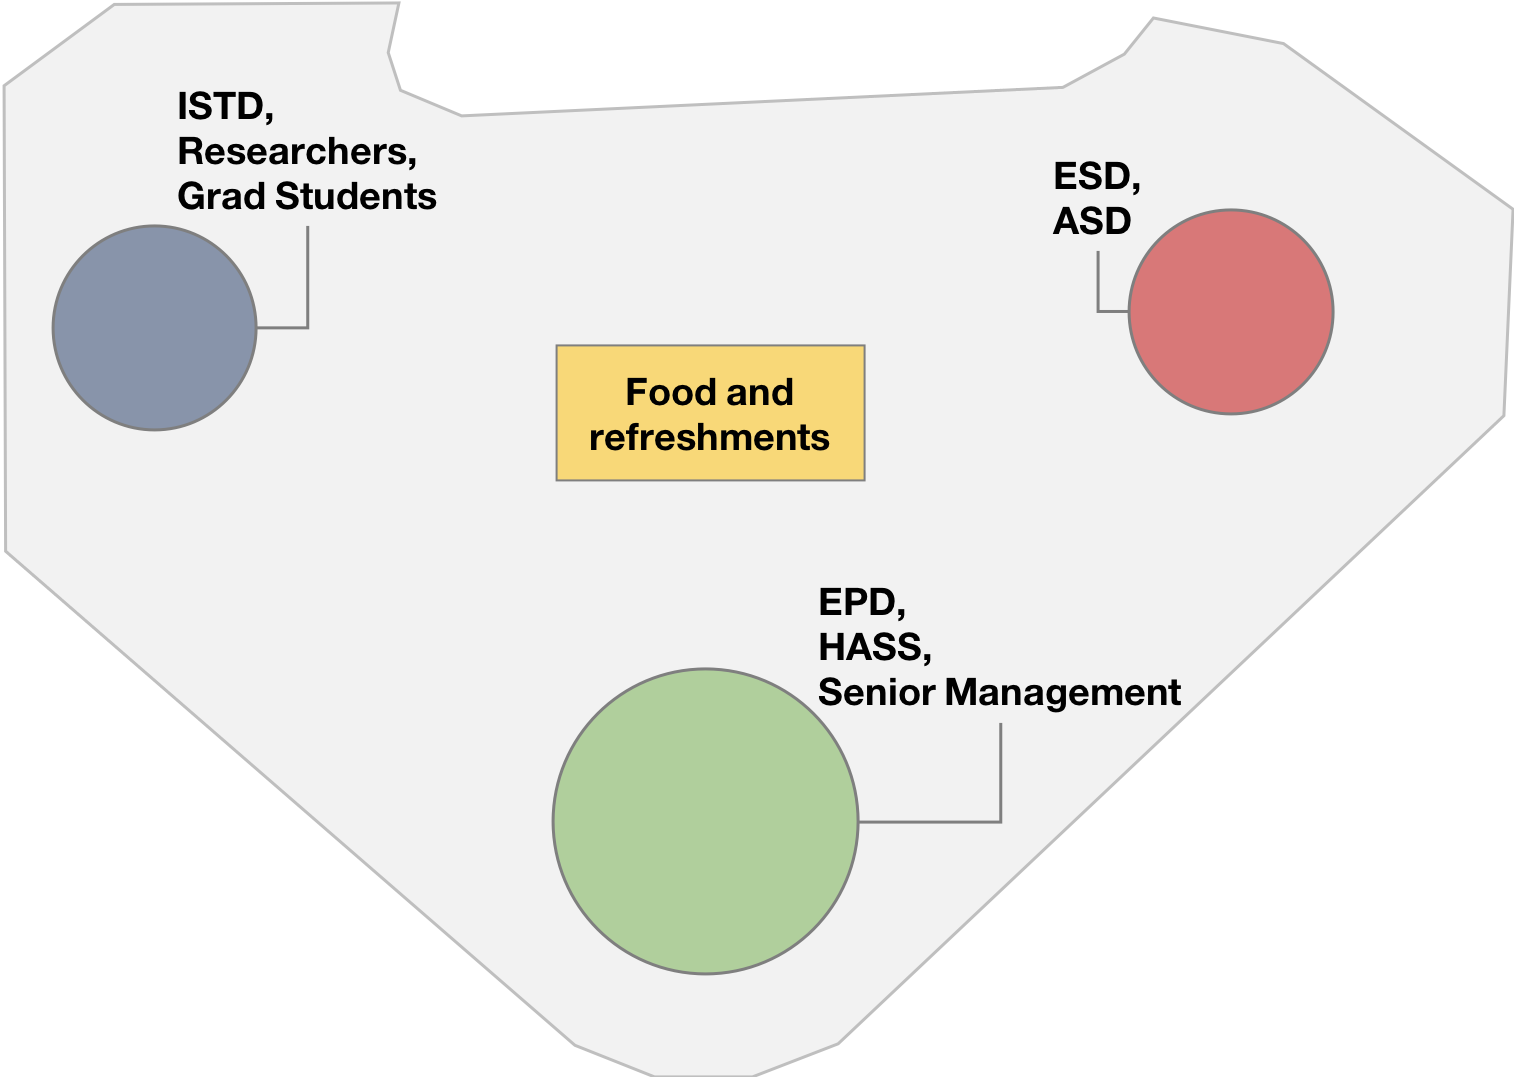
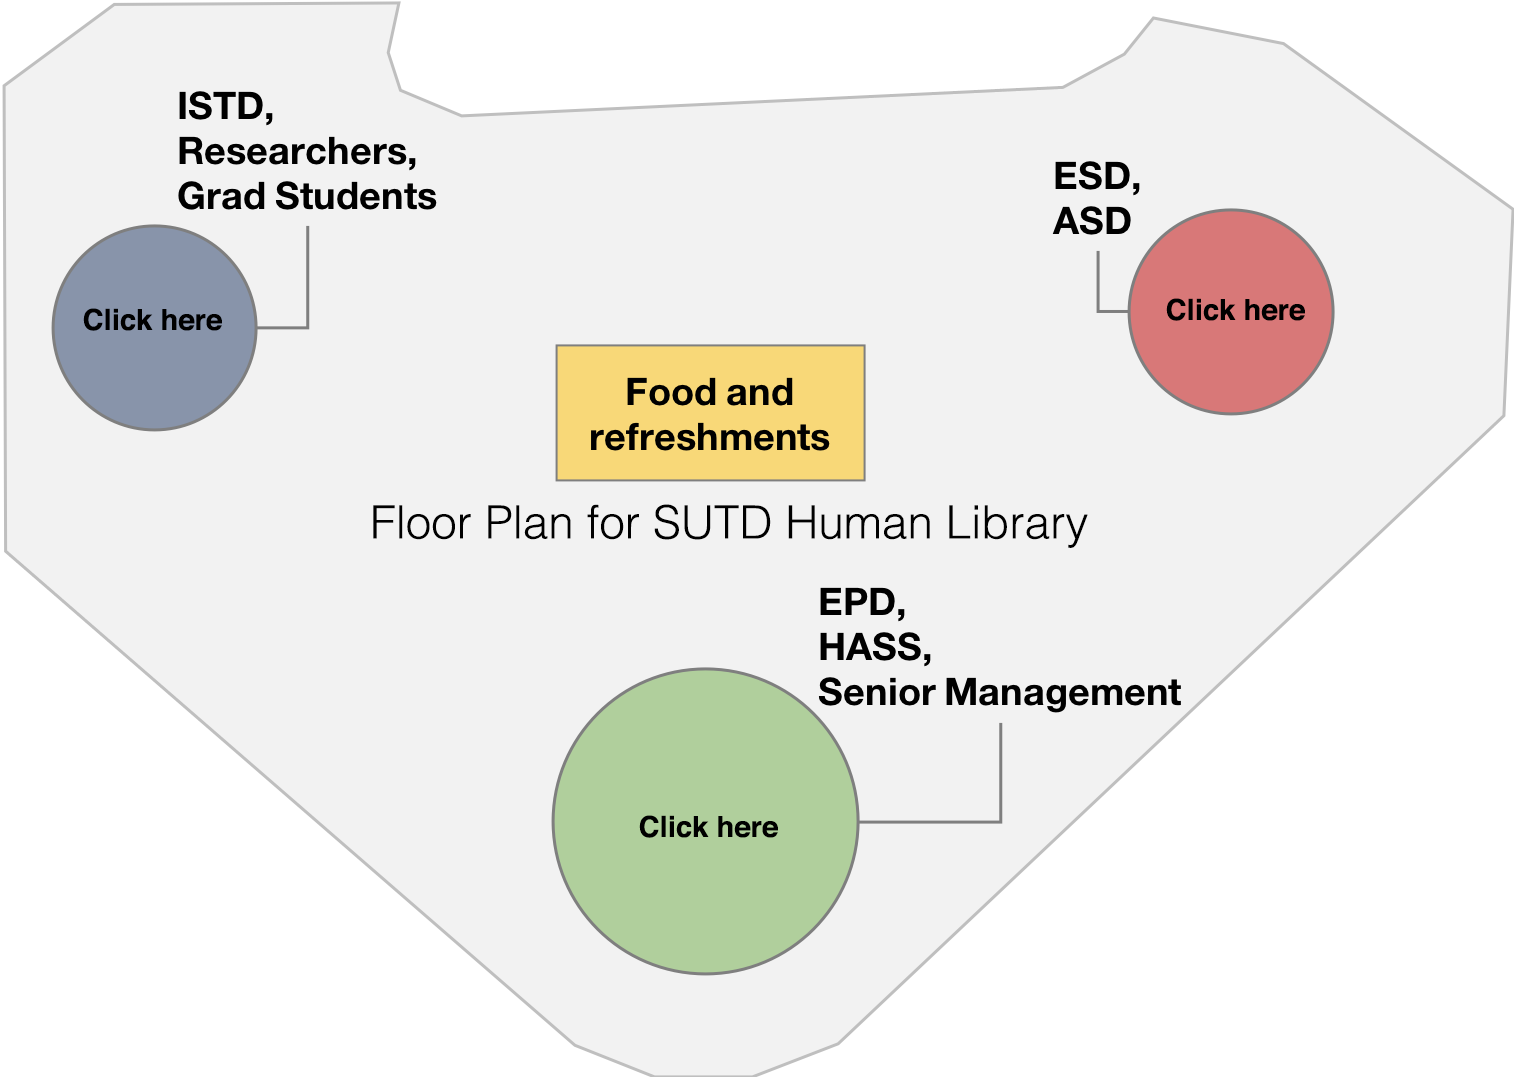
Added floorplan and map

diff --git a/people.html b/people.html
@@ -36,6 +36,7 @@
 		<nav id="menu">
 			<ul class="links">
 				<li><a href="index.html">Home</a></li>
+				<li><a href="#floor-plan">Floor Plan</a></li>
 				<li><a href="#senior-management">Senior Management</a></li>
 				<li><a href="#hass">HASS</a></li>
 				<li><a href="#asd">ASD</a></li>
@@ -48,6 +49,99 @@
 		</nav>
 
 		<div id="main" class="alt padded-top">
+
+			<div class="inner">
+				<img id="floor-plan" src="images/map.png" width="100%">
+				<div class="map-links">
+					<a href="#blue" title=""
+						style="position: absolute; left: 1.32%; top: 15%; width: 29.79%; height: 37.51%; z-index: 2;"></a><a
+						href="#green" title=""
+						style="position: absolute; left: 34.48%; top: 65%; width: 45.57%; height: 42.15%; z-index: 2;"></a><a
+						href="#red" title=""
+						style="position: absolute; left: 64.99%; top: 25%; width: 27.61%; height: 31.57%; z-index: 2;"></a>
+				</div>
+			</div>
+
+			<div class="inner">
+				<header class="major">
+					<h3 class="section-sep" id="green" style="background: lightgreen">"Green" Zone</h3>
+				</header>
+			</div>
+
+			<section id="one">
+				<div class="inner">
+					<header class="major">
+						<h1>Books</h1>
+					</header>
+					<ul>
+						<li><b>Senior Management</b></li>
+						<li><a href="#pey-kin-leong">Pey Kin Leong</a></li>
+						<li><a href="#lim-seh-chun">Lim Seh Chun</a></li>
+						<li><b>HASS</b></li>
+						<li><a href="#ate-poorthuis">Ate Poorthuis</a></li>
+						<li><b>EPD</b></li>
+						<li><a href="#ricky-ang">Ricky Ang</a></li>
+						<li><a href="#dario-poletti">Dario Poletti</a></li>
+						<li><a href="#teo-tee-hui">Teo Tee Hui</a></li>
+						<li><a href="#max-colla">Massimiliano Colla</a></li>
+						<li><a href="#lap-chan">Lap Chan</a></li>
+						<li><b>Seniors</b></li>
+						<li><a href="#hoo-jian-li">Hoo Jian Li</a></li>
+					</ul>
+				</div>
+			</section>
+
+			<div class="inner">
+				<header class="major">
+					<h3 class="section-sep" id="red" style="background: lightcoral">"Red" Zone</h3>
+				</header>
+			</div>
+
+			<section id="one">
+				<div class="inner">
+					<header class="major">
+						<h1>Books</h1>
+					</header>
+					<ul>
+						<li><b>ESD</b></li>
+						<li><a href="#douglas-streeter-rolph">Douglas Streeter Rolph</a></li>
+						<li><a href="#omar-ortiz">Omar Ortiz</a></li>
+						<li><a href="#keegan-kang">Keegan Kang</a></li>
+						<li><b>ASD</b></li>
+						<li><a href="#sam-conrad-joyce">Sam Conrad Joyce</a></li>
+						<li><b>Seniors</b></li>
+						<li><a href="#yustynn">Yustynn</a></li>
+						<li><a href="#ryann-sim">Ryann Sim</a></li>
+						<li><a href="#pek-yun-ning">Pek Yun Ning</a></li>
+					</ul>
+				</div>
+			</section>
+
+			<div class="inner">
+				<header class="major">
+					<h3 class="section-sep" id="blue" style="background: lightskyblue">"Blue" Zone</h3>
+				</header>
+			</div>
+
+			<section id="one">
+				<div class="inner">
+					<header class="major">
+						<h1>Books</h1>
+					</header>
+					<ul>
+						<li><b>ISTD</b></li>
+						<li><a href="#natalie-agus">Natalie Agus</a></li>
+						<li><a href="#chris-poskitt">Chris Poskitt</a></li>
+						<li><a href="#oka-Kurniawan">Oka Kurniawan</a></li>
+						<li><a href="#norman-lee">Norman Lee</a></li>
+						<li><b>Researchers & Grad Students</b></li>
+						<li><a href="#john-chan">John Chan</a></li>
+						<li><a href="#stefanos-leonardos"></a>Stefanos Leonardos</li>
+						<li><b>Seniors</b></li>
+						<li><a href="#joel-huang">Joel Huang</a></li>
+					</ul>
+				</div>
+			</section>
 
 			<div class="inner">
 				<header class="major">

diff --git a/assets/css/main.css b/assets/css/main.css
@@ -226,6 +226,11 @@ body {
     }
 }
 
+#main > div:nth-child(1) > div > a {
+    text-decoration: none !important;
+    border: none !important;
+}
+
 .section-sep {
     background: #800000;
     color: white;
